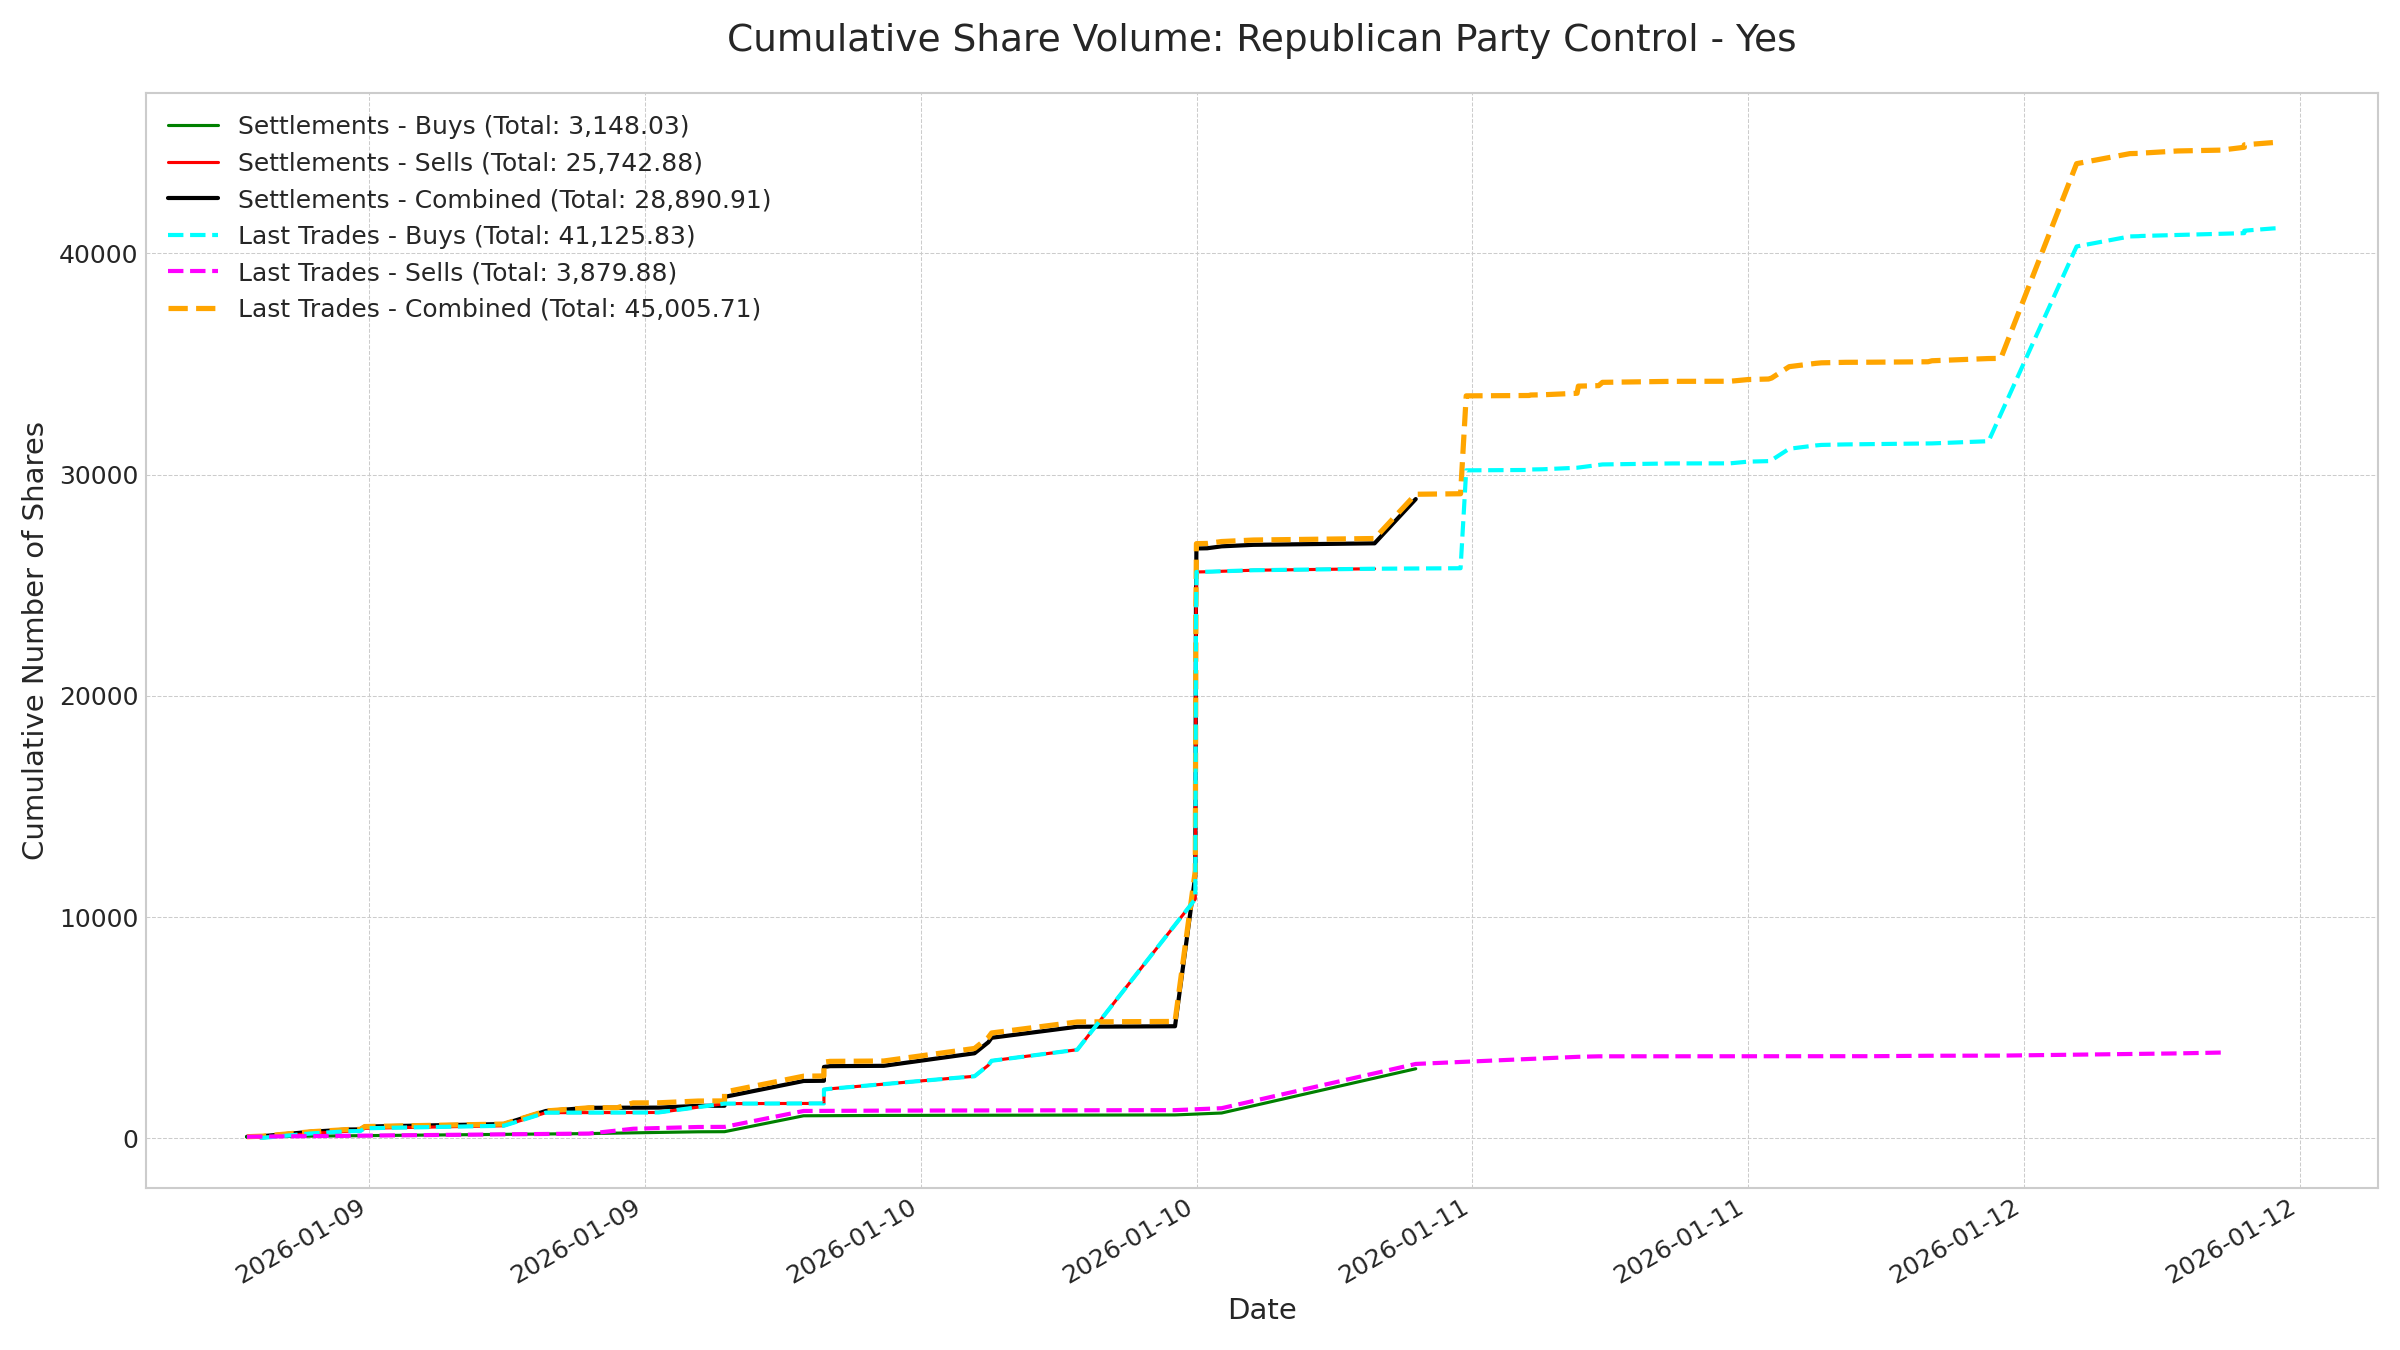
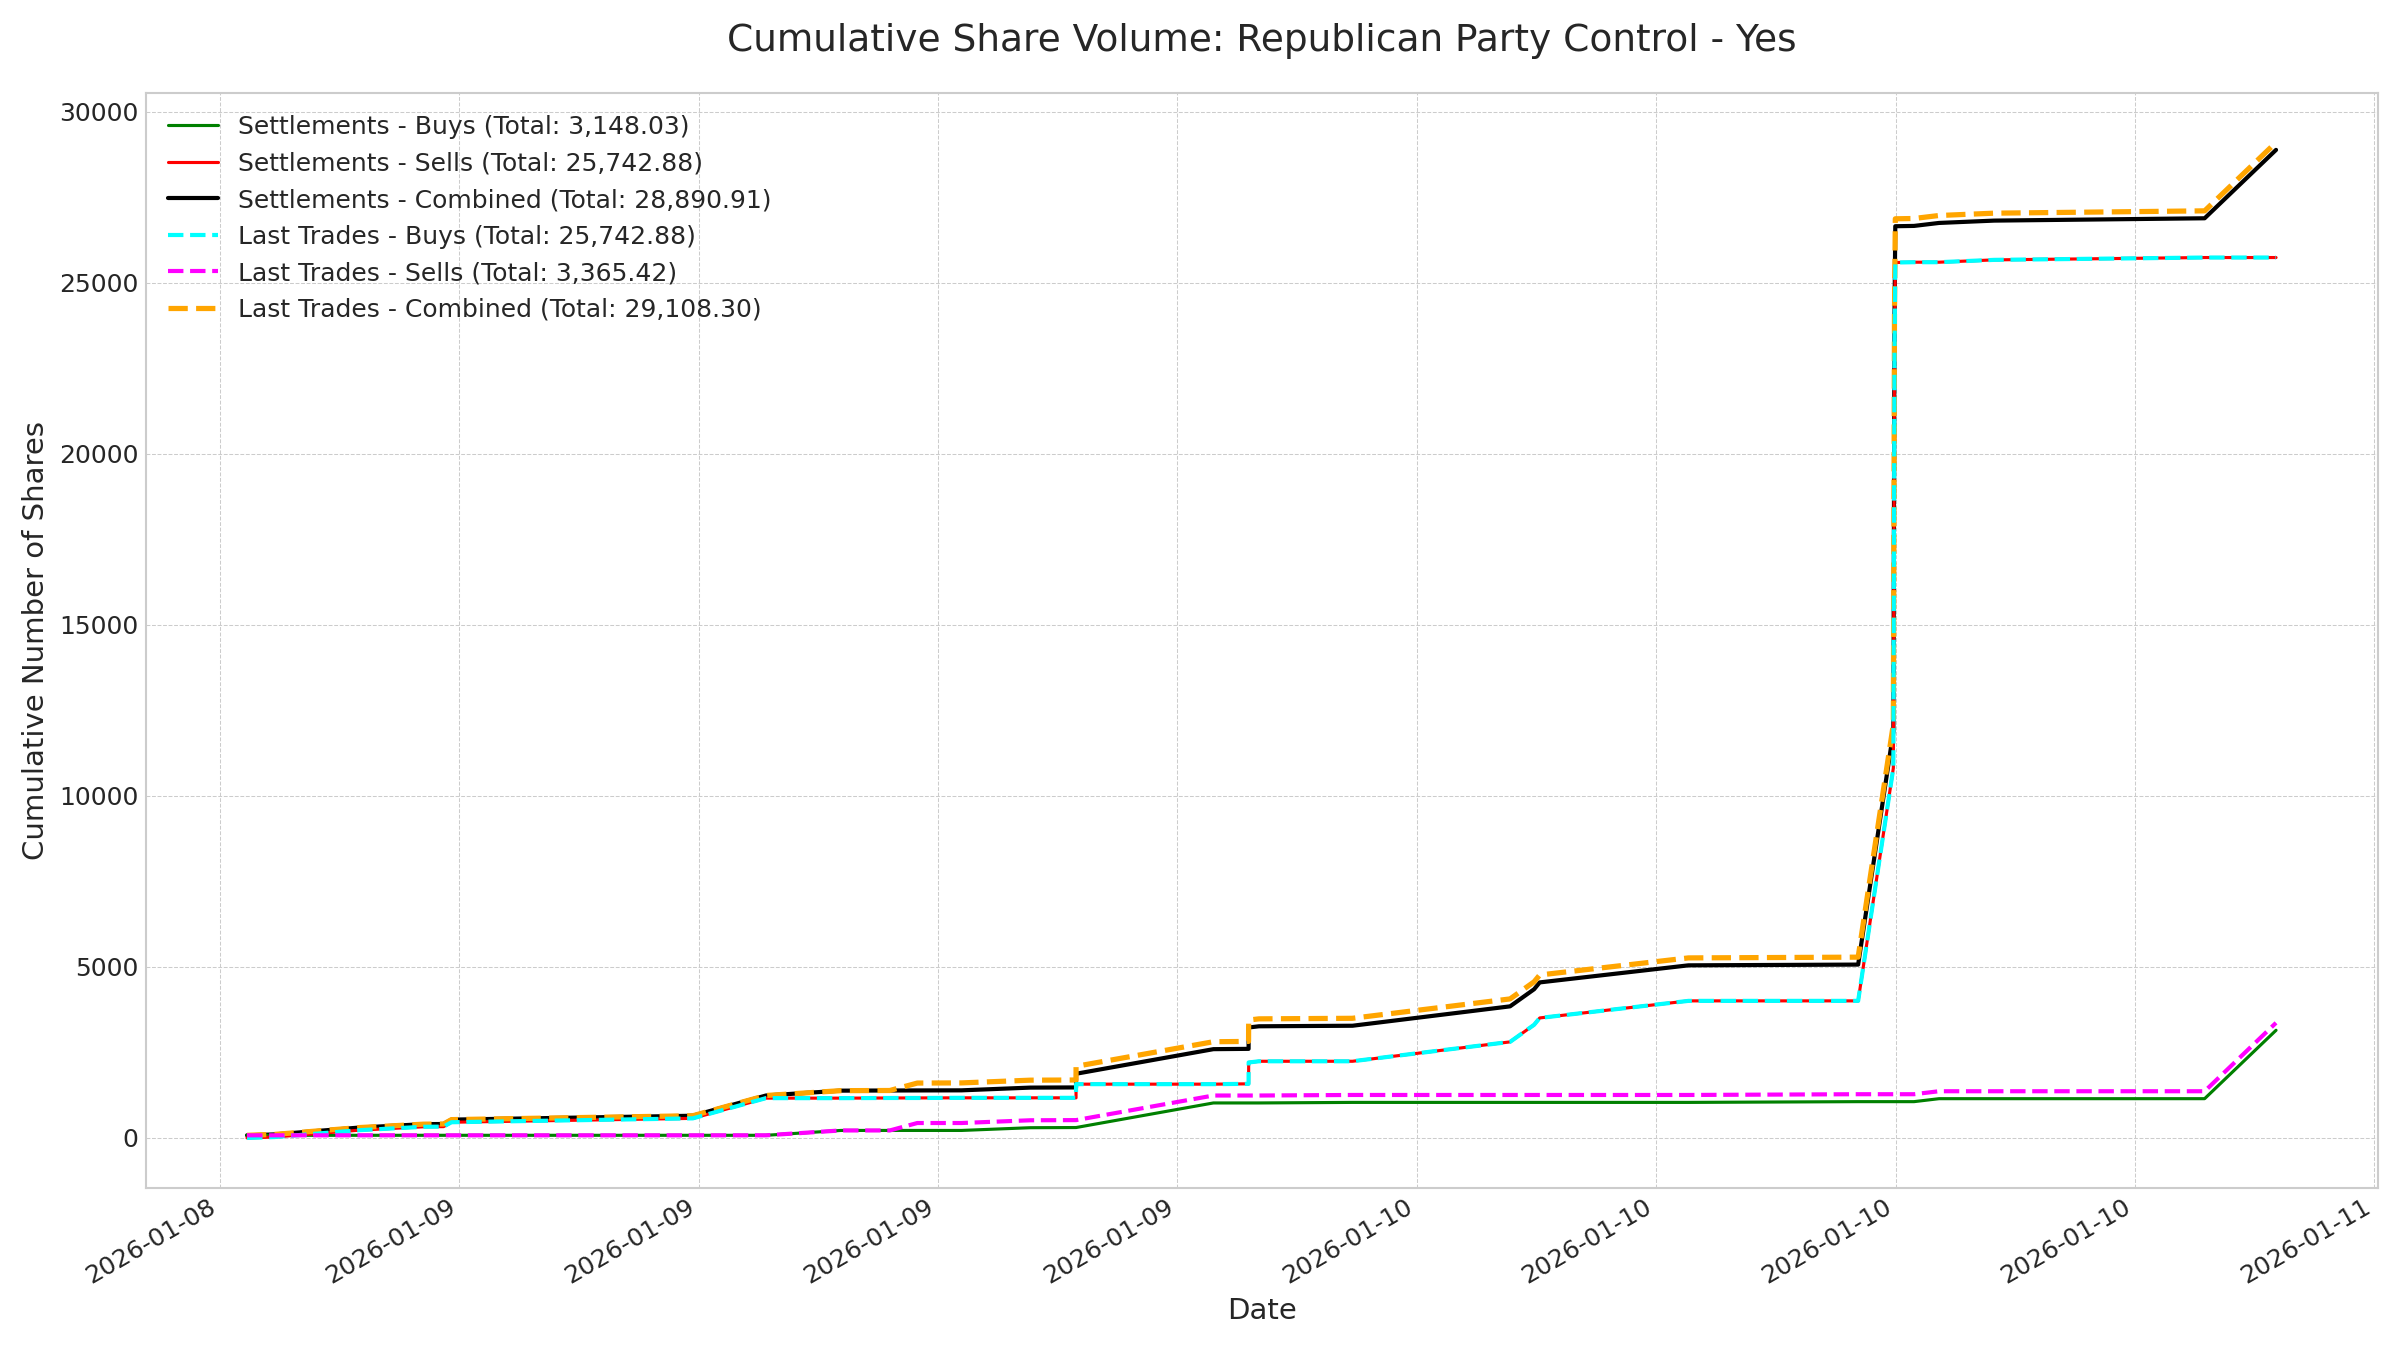
volume2

diff --git a/data_analysis/house_analysis2.py b/data_analysis/house_analysis2.py
@@ -1,7 +1,7 @@
 #!/usr/bin/env python3
 """
 Analytics script to plot the cumulative volume of bought and sold shares for specific market outcomes.
-This version corrects the unit handling for off-chain trades and adds total counts to the legend.
+This version uses a robust method to calculate cumulative volumes, ensuring logical consistency.
 
 For each of the four target asset IDs, this script generates a plot with six lines:
 - On-Chain Settlements: Cumulative Buys, Sells, and Combined Volume.
@@ -40,7 +40,6 @@ REF_UNIX_TIMESTAMP = 1767864474
 SECONDS_PER_BLOCK = 2
 
 # --- Target Market & Asset Configuration ---
-# The amounts from ON-CHAIN settlements are divided by this scalar.
 SHARE_SCALAR = Decimal("1_000_000")
 
 TARGET_ASSETS = {
@@ -73,108 +72,82 @@ async def fetch_data(query: str) -> list:
             await conn.close()
 
 def process_settlements_data(records: list) -> pd.DataFrame:
-    """
-    Processes raw settlement records to extract trade volumes for target assets.
-    The logic centers on the OrdersMatched event, which summarizes the taker's action.
-    """
     processed_trades = []
     for row in records:
         try:
             trade_data = json.loads(row['trade'])
             timestamp = pd.to_datetime(block_to_timestamp(row['block_number']), unit='s')
-            
             for matched_order in trade_data.get('orders_matched', []):
                 data_hex = bytes.fromhex(matched_order['data'][2:])
                 decoded_data = decode(['uint256', 'uint256', 'uint256', 'uint256'], data_hex)
-                maker_asset_id = str(decoded_data[0])
-                taker_asset_id = str(decoded_data[1])
-                maker_amount_filled = Decimal(decoded_data[2])
-                taker_amount_filled = Decimal(decoded_data[3])
-
+                maker_asset_id, taker_asset_id = str(decoded_data[0]), str(decoded_data[1])
+                maker_amount, taker_amount = Decimal(decoded_data[2]), Decimal(decoded_data[3])
                 if taker_asset_id in TARGET_ASSETS:
-                    processed_trades.append({
-                        'timestamp': timestamp, 'asset_id': taker_asset_id, 'side': 'sell',
-                        'amount': taker_amount_filled / SHARE_SCALAR
-                    })
-                
+                    processed_trades.append({'timestamp': timestamp, 'asset_id': taker_asset_id, 'side': 'sell', 'amount': taker_amount / SHARE_SCALAR})
                 if maker_asset_id in TARGET_ASSETS:
-                    processed_trades.append({
-                        'timestamp': timestamp, 'asset_id': maker_asset_id, 'side': 'buy',
-                        'amount': maker_amount_filled / SHARE_SCALAR
-                    })
-        except (json.JSONDecodeError, KeyError, IndexError, Exception) as e:
+                    processed_trades.append({'timestamp': timestamp, 'asset_id': maker_asset_id, 'side': 'buy', 'amount': maker_amount / SHARE_SCALAR})
+        except Exception as e:
             logger.warning(f"Skipping settlement row due to parsing error: {e}")
-            continue
-            
     return pd.DataFrame(processed_trades)
 
 def process_last_trades_data(records: list) -> pd.DataFrame:
-    """Processes raw last_trade records to extract trade volumes."""
     processed_trades = []
     for row in records:
         try:
             msg = json.loads(row['message'])
             side = msg.get('side', '').lower()
             if side in ['buy', 'sell']:
-                # CORRECTED: The 'size' from last_trade is already in the correct unit.
-                # Do NOT divide by SHARE_SCALAR.
-                amount = Decimal(msg.get('size', 0))
-                processed_trades.append({
-                    'timestamp': pd.to_datetime(row['server_time_us'], unit='us'),
-                    'asset_id': row['asset_id'],
-                    'side': side,
-                    'amount': amount
-                })
-        except (json.JSONDecodeError, KeyError) as e:
+                processed_trades.append({'timestamp': pd.to_datetime(row['server_time_us'], unit='us'), 'asset_id': row['asset_id'], 'side': side, 'amount': Decimal(msg.get('size', 0))})
+        except Exception as e:
             logger.warning(f"Skipping last_trade row due to parsing error: {e}")
-            continue
-            
     return pd.DataFrame(processed_trades)
 
 def prepare_plot_data(df: pd.DataFrame, asset_id: str) -> dict:
-    """Filters data for an asset and calculates cumulative buys, sells, and combined volume."""
+    """
+    CORRECTED: Calculates cumulative volumes on a unified timeline to prevent logical errors.
+    """
     if df.empty:
-        return {'buy': pd.DataFrame(), 'sell': pd.DataFrame(), 'combined': pd.DataFrame()}
-
-    asset_df = df[df['asset_id'] == asset_id].copy()
+        return {}
+    asset_df = df[df['asset_id'] == asset_id].sort_values('timestamp').copy()
     if asset_df.empty:
-        return {'buy': pd.DataFrame(), 'sell': pd.DataFrame(), 'combined': pd.DataFrame()}
-        
-    buys = asset_df[asset_df['side'] == 'buy'].sort_values('timestamp')
-    buys['cumulative'] = buys['amount'].cumsum()
+        return {}
+
+    # Create separate columns for buy and sell amounts
+    asset_df['buy_amount'] = asset_df.apply(lambda row: row['amount'] if row['side'] == 'buy' else 0, axis=1)
+    asset_df['sell_amount'] = asset_df.apply(lambda row: row['amount'] if row['side'] == 'sell' else 0, axis=1)
+
+    # Calculate cumulative sums on the unified dataframe
+    asset_df['cumulative_buys'] = asset_df['buy_amount'].cumsum()
+    asset_df['cumulative_sells'] = asset_df['sell_amount'].cumsum()
+    asset_df['cumulative_combined'] = asset_df['amount'].cumsum()
     
-    sells = asset_df[asset_df['side'] == 'sell'].sort_values('timestamp')
-    sells['cumulative'] = sells['amount'].cumsum()
-    
-    combined = asset_df.sort_values('timestamp')
-    combined['cumulative'] = combined['amount'].cumsum()
-    
-    return {'buy': buys, 'sell': sells, 'combined': combined}
+    return asset_df
 
 # ----------------------------------------------------------------
 # PLOTTING FUNCTION
 # ----------------------------------------------------------------
 
-def plot_volume_graphs(asset_id: str, asset_name: str, settlements_data: dict, trades_data: dict):
-    """Generates and saves a plot for a single asset ID with totals in the legend."""
+def plot_volume_graphs(asset_id: str, asset_name: str, settlements_df: pd.DataFrame, trades_df: pd.DataFrame):
     plt.style.use('seaborn-v0_8-whitegrid')
     fig, ax = plt.subplots(figsize=(16, 9))
 
-    def get_legend_label(base_label: str, data: pd.DataFrame) -> str:
-        if data.empty:
+    def get_legend_label(base_label: str, series: pd.Series) -> str:
+        if series.empty:
             return f"{base_label} (Total: 0.00)"
-        total = data['cumulative'].iloc[-1]
+        total = series.iloc[-1]
         return f"{base_label} (Total: {total:,.2f})"
 
     # --- Plotting Settlements Data (Solid Lines) ---
-    ax.plot(settlements_data['buy']['timestamp'], settlements_data['buy']['cumulative'], color='green', linestyle='-', linewidth=1.5, zorder=5, label=get_legend_label('Settlements - Buys', settlements_data['buy']))
-    ax.plot(settlements_data['sell']['timestamp'], settlements_data['sell']['cumulative'], color='red', linestyle='-', linewidth=1.5, zorder=5, label=get_legend_label('Settlements - Sells', settlements_data['sell']))
-    ax.plot(settlements_data['combined']['timestamp'], settlements_data['combined']['cumulative'], color='black', linestyle='-', linewidth=2.0, zorder=4, label=get_legend_label('Settlements - Combined', settlements_data['combined']))
+    if not settlements_df.empty:
+        ax.plot(settlements_df['timestamp'], settlements_df['cumulative_buys'], color='green', linestyle='-', linewidth=1.5, zorder=5, label=get_legend_label('Settlements - Buys', settlements_df['cumulative_buys']))
+        ax.plot(settlements_df['timestamp'], settlements_df['cumulative_sells'], color='red', linestyle='-', linewidth=1.5, zorder=5, label=get_legend_label('Settlements - Sells', settlements_df['cumulative_sells']))
+        ax.plot(settlements_df['timestamp'], settlements_df['cumulative_combined'], color='black', linestyle='-', linewidth=2.0, zorder=4, label=get_legend_label('Settlements - Combined', settlements_df['cumulative_combined']))
 
     # --- Plotting Last Trades Data (Dashed Lines) ---
-    ax.plot(trades_data['buy']['timestamp'], trades_data['buy']['cumulative'], color='cyan', linestyle='--', linewidth=2.0, zorder=10, label=get_legend_label('Last Trades - Buys', trades_data['buy']))
-    ax.plot(trades_data['sell']['timestamp'], trades_data['sell']['cumulative'], color='magenta', linestyle='--', linewidth=2.0, zorder=10, label=get_legend_label('Last Trades - Sells', trades_data['sell']))
-    ax.plot(trades_data['combined']['timestamp'], trades_data['combined']['cumulative'], color='orange', linestyle='--', linewidth=2.5, zorder=9, label=get_legend_label('Last Trades - Combined', trades_data['combined']))
+    if not trades_df.empty:
+        ax.plot(trades_df['timestamp'], trades_df['cumulative_buys'], color='cyan', linestyle='--', linewidth=2.0, zorder=10, label=get_legend_label('Last Trades - Buys', trades_df['cumulative_buys']))
+        ax.plot(trades_df['timestamp'], trades_df['cumulative_sells'], color='magenta', linestyle='--', linewidth=2.0, zorder=10, label=get_legend_label('Last Trades - Sells', trades_df['cumulative_sells']))
+        ax.plot(trades_df['timestamp'], trades_df['cumulative_combined'], color='orange', linestyle='--', linewidth=2.5, zorder=9, label=get_legend_label('Last Trades - Combined', trades_df['cumulative_combined']))
 
     # --- Formatting ---
     ax.set_title(f'Cumulative Share Volume: {asset_name}', fontsize=18, pad=20)
@@ -202,7 +175,17 @@ async def main():
     last_trade_records = await fetch_data("SELECT asset_id, server_time_us, message FROM poly_last_trade_price_house")
 
     df_settlements = process_settlements_data(settlement_records)
+    
+    max_settlement_timestamp = pd.Timestamp.min
+    if not df_settlements.empty:
+        max_settlement_timestamp = df_settlements['timestamp'].max()
+        logger.info(f"Time range will be synchronized to the last settlement event: {max_settlement_timestamp}")
+    else:
+        logger.warning("No settlement data found. The time range for last trades will not be truncated.")
+
     df_last_trades = process_last_trades_data(last_trade_records)
+    if not df_last_trades.empty and max_settlement_timestamp > pd.Timestamp.min:
+        df_last_trades = df_last_trades[df_last_trades['timestamp'] <= max_settlement_timestamp].copy()
 
     for asset_id, asset_name in TARGET_ASSETS.items():
         logger.info(f"\n--- Generating plot for: {asset_name} ---")
